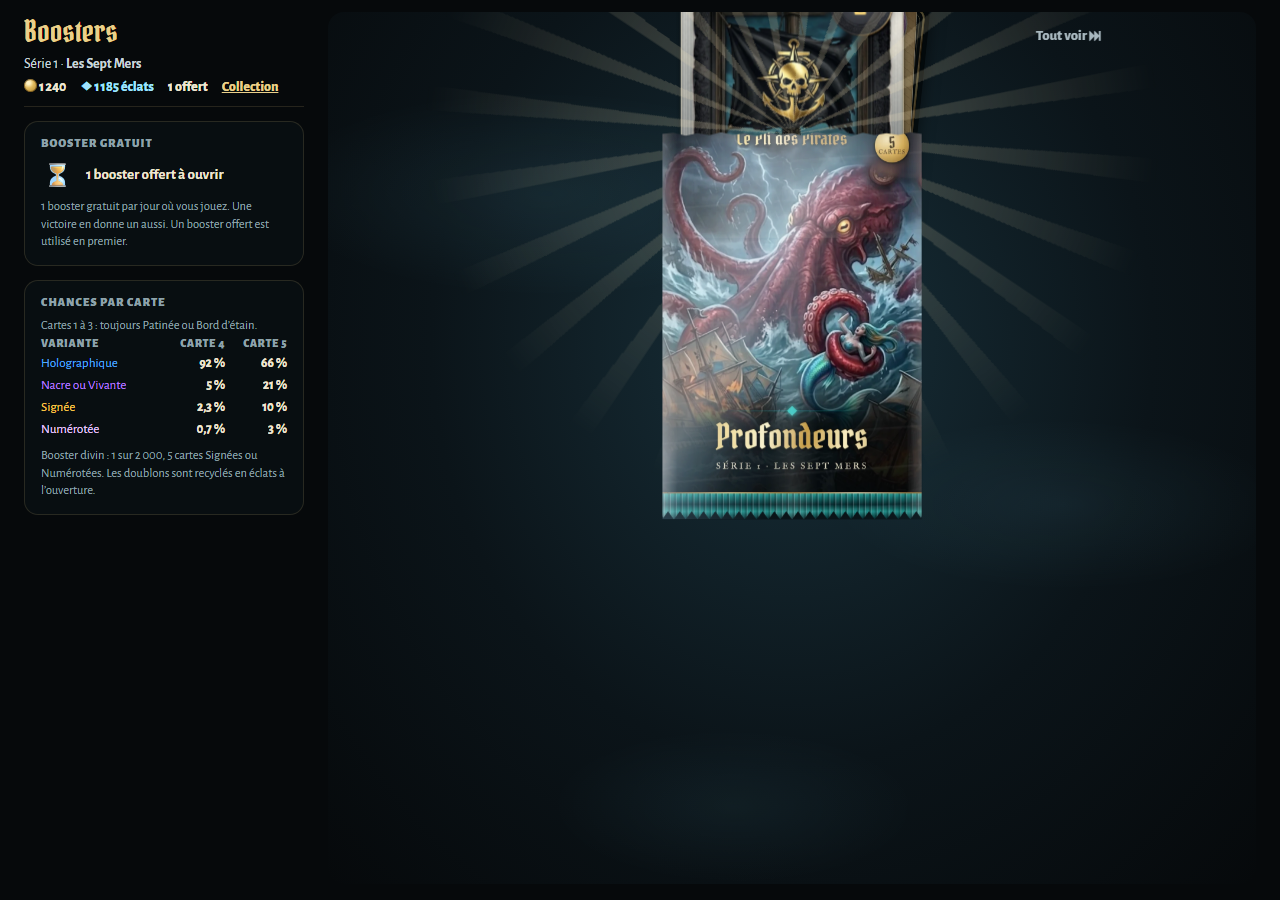
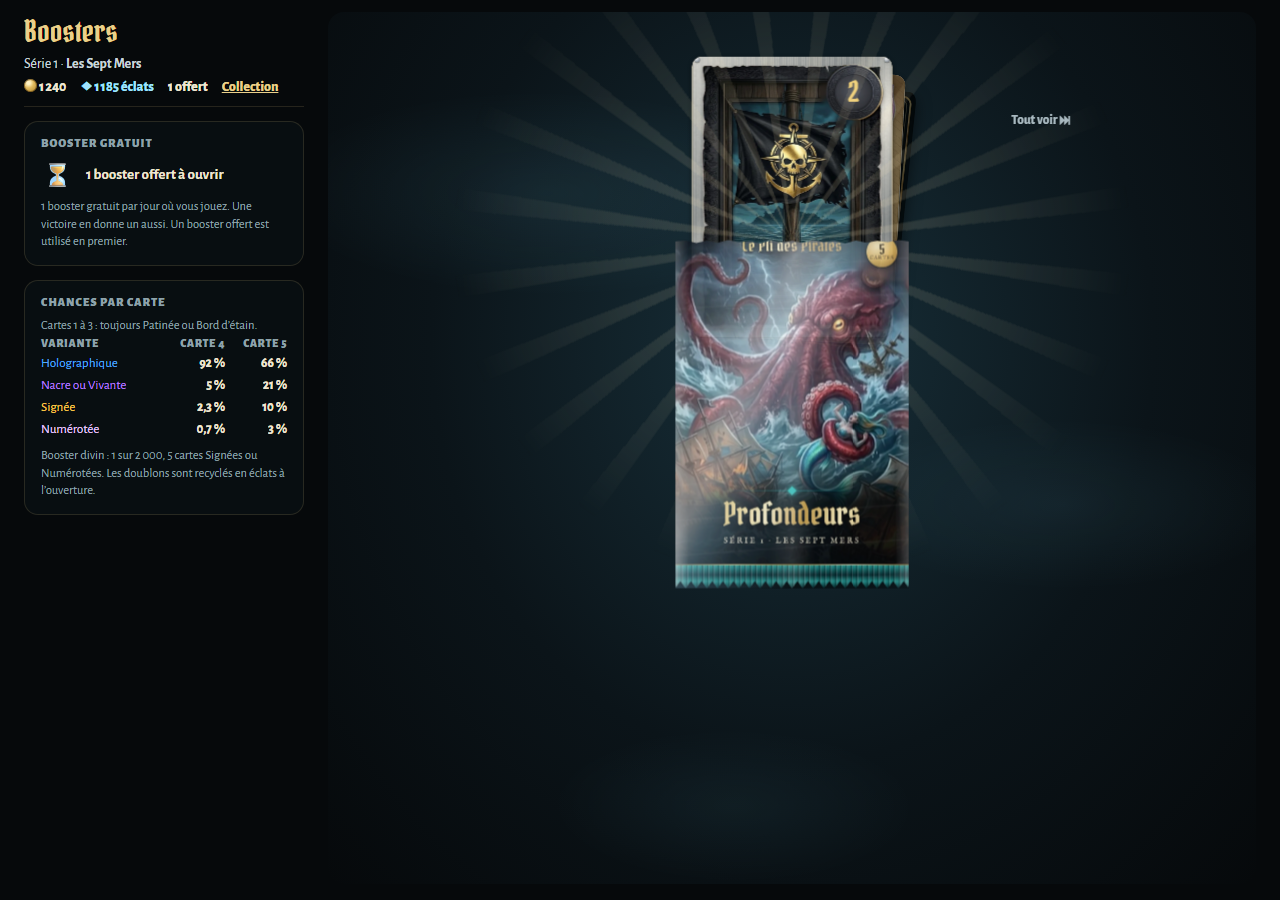
Boosters : cartes qui restent dans l'écran, booster plus bas, Vivante animées
- composant : 100 px réservés au-dessus de la scène (la pile monte de 175 px à l'ouverture et sortait de l'écran) ; booster décalé vers le bas
- cartes du composant : la règle « mouvement réduit » du système n'est plus recopiée (variantes figées avec les animations de Windows coupées) ; l'option du Casier fige les cartes
- filtre SVG de la mer qui ondule embarqué dans chaque carte (url(#k4rip) ne voit pas hors de la racine fantôme) ; RIP_SVG exporté par cards.ts
- tests : cartes dans l'écran au sommet de la montée (1,1 s), Vivante animée au butin avec le réglage système actif ; la pile attend la fin de l'ouverture

diff --git a/web/src/cards.ts b/web/src/cards.ts
@@ -90,13 +90,16 @@ function layers(key: string, v: Variant, serial?: number | null): string {
   return `<div class="lay"><div class="win" style="${boxStyle(windowBox(key))}">${win}</div>`
     + `<img class="cadre" src="${cadreUrl(key)}" alt="" decoding="async" draggable="false">${top}</div>`;
 }
-/** Filtre SVG de l'ondulation de la mer (Vivante des cartes marines), ajouté une seule fois dans la page. */
+/** Filtre SVG de l'ondulation de la mer (Vivante des cartes marines). Les cartes rendues dans un Shadow DOM (écran Booster)
+ *  l'embarquent elles-mêmes : url(#k4rip) ne voit pas au-delà de leur racine. */
+export const RIP_SVG = '<svg width="0" height="0" style="position:absolute" aria-hidden="true"><filter id="k4rip" x="-5%" y="-5%" width="110%" height="110%" primitiveUnits="objectBoundingBox"><feTurbulence type="fractalNoise" baseFrequency="1.6 9" numOctaves="1" seed="4" result="n"><animate attributeName="baseFrequency" dur="8s" values="1.6 9;1.9 11;1.6 9" repeatCount="indefinite"/></feTurbulence><feOffset in="n" dx="0" dy="0" result="m"><animate attributeName="dy" dur="8s" values="0;.04;0" repeatCount="indefinite"/></feOffset><feDisplacementMap in="SourceGraphic" in2="m" scale=".022" xChannelSelector="R" yChannelSelector="G"/></filter></svg>';
+/** Le filtre, ajouté une seule fois dans la page. */
 function ensureRipFilter() {
   if (typeof document === 'undefined' || document.getElementById('k4rip')) return;
   const add = () => {
     if (document.getElementById('k4rip')) return;
     const d = document.createElement('div');
-    d.innerHTML = '<svg width="0" height="0" style="position:absolute" aria-hidden="true"><filter id="k4rip" x="-5%" y="-5%" width="110%" height="110%" primitiveUnits="objectBoundingBox"><feTurbulence type="fractalNoise" baseFrequency="1.6 9" numOctaves="1" seed="4" result="n"><animate attributeName="baseFrequency" dur="8s" values="1.6 9;1.9 11;1.6 9" repeatCount="indefinite"/></feTurbulence><feOffset in="n" dx="0" dy="0" result="m"><animate attributeName="dy" dur="8s" values="0;.04;0" repeatCount="indefinite"/></feOffset><feDisplacementMap in="SourceGraphic" in2="m" scale=".022" xChannelSelector="R" yChannelSelector="G"/></filter></svg>';
+    d.innerHTML = RIP_SVG;
     document.body.append(d.firstChild!);
   };
   document.body ? add() : addEventListener('DOMContentLoaded', add);

diff --git a/web/src/booster.ts b/web/src/booster.ts
@@ -7,7 +7,7 @@ import './styles/booster.css';
 import './booster/booster-opening.js';
 import { callGame } from './api';
 import { esc, toast } from './util';
-import { cardHTML } from './cards';
+import { cardHTML, RIP_SVG } from './cards';
 import { sfx } from './sfx';
 import type { CallGame } from './pages/collection';
 import { boosterReduced } from './locker';
@@ -57,6 +57,9 @@ function cardStyles() {
   const keep = (r: CSSRule): string => {
     if (r instanceof CSSStyleRule) return CARD_RULE.test(r.selectorText) ? r.cssText : '';
     if (r instanceof CSSKeyframesRule || (typeof CSSPropertyRule !== 'undefined' && r instanceof CSSPropertyRule)) return r.cssText;
+    // l'écran Booster ignore le réglage système (animations de Windows coupées = variantes figées) : c'est l'option du
+    // Casier « Ouverture des boosters réduite » qui fige les cartes (renderCard, still)
+    if (r instanceof CSSMediaRule && /prefers-reduced-motion/.test(r.conditionText)) return '';
     if (r instanceof CSSMediaRule || r instanceof CSSSupportsRule) {
       const inner = Array.from(r.cssRules).map(keep).join('');
       return inner ? `${r instanceof CSSMediaRule ? '@media ' + r.conditionText : '@supports ' + r.conditionText}{${inner}}` : '';
@@ -76,7 +79,8 @@ function renderCard(c: Partial<CompCard> & { id: string; variant?: Variant }, { 
   const host = document.createElement('div'), def = CARD_BY_ID[c.id];
   host.className = 'pli-card'; host.style.cssText = 'position:relative;display:block';
   const sr = host.attachShadow({ mode: 'open' }); sr.adoptedStyleSheets = [cardStyles()];
-  sr.innerHTML = def ? `<div style="display:flex;justify-content:center;width:100%;height:100%">${cardHTML({ id: 0, ...def.card }, null, '', `style="--s:${(width / 252).toFixed(4)}"`, { variant: c.variant ?? 'std', serial: c.n ?? null, still })}</div>` : '';
+  // filtre SVG de la mer qui ondule (Vivante) embarqué : url(#k4rip) ne voit pas au-delà de la racine fantôme
+  sr.innerHTML = def ? `${RIP_SVG}<div style="display:flex;justify-content:center;width:100%;height:100%">${cardHTML({ id: 0, ...def.card }, null, '', `style="--s:${(width / 252).toFixed(4)}"`, { variant: c.variant ?? 'std', serial: c.n ?? null, still: still || boosterReduced() })}</div>` : '';
   return host;
 }
 

diff --git a/web/src/booster/booster-opening.js b/web/src/booster/booster-opening.js
@@ -169,8 +169,9 @@ class BoosterOpening extends HTMLElement {
     this.renderChoose();
   }
   disconnectedCallback() { this.clear(); this.ro && this.ro.disconnect(); }
-  // mise à l'échelle (intégration au jeu) : la scène de 680 × 900 remplit le conteneur sans marge, pour des sachets plus grands
-  resize() { const r = this.getBoundingClientRect(), s = Math.min(1.25, r.width / 680, r.height / 900); this.fit.style.transform = `translate(-50%,-50%) scale(${s})`; }
+  // mise à l'échelle (intégration au jeu) : la scène de 680 × 900 remplit le conteneur, avec 100 px réservés au-dessus
+  // (à l'ouverture, la pile monte de 175 px et dépassait le haut de la scène) ; la scène est donc décalée de 50 px vers le bas
+  resize() { const r = this.getBoundingClientRect(), s = Math.min(1.25, r.width / 680, r.height / 1000); this.fit.style.transform = `translate(-50%,-50%) translateY(${(50 * s).toFixed(1)}px) scale(${s})`; }
   later(ms, f) { const k = this.k; this.timers.push(setTimeout(() => { if (this.k === k) f(); }, this.hasAttribute('reduce') ? Math.min(ms, 300) : ms)); }
   clear() { this.timers.forEach(clearTimeout); this.timers = []; this.k = (this.k || 0) + 1; }
 
